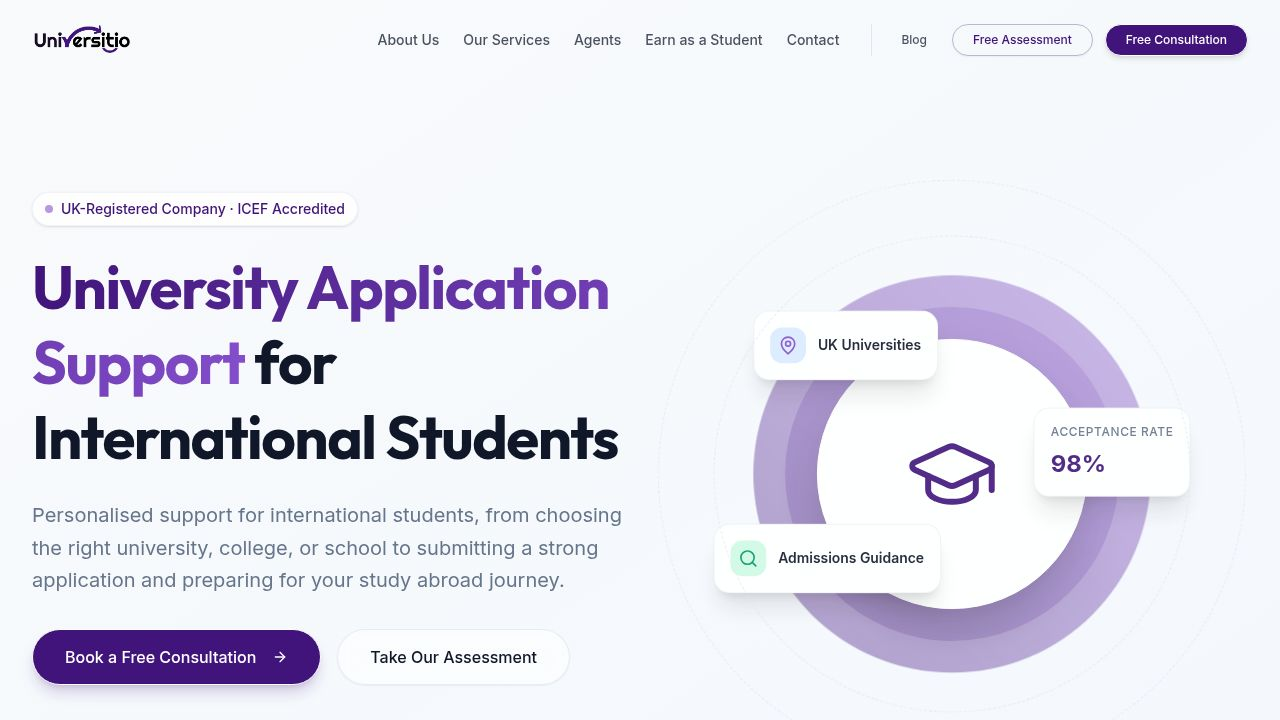
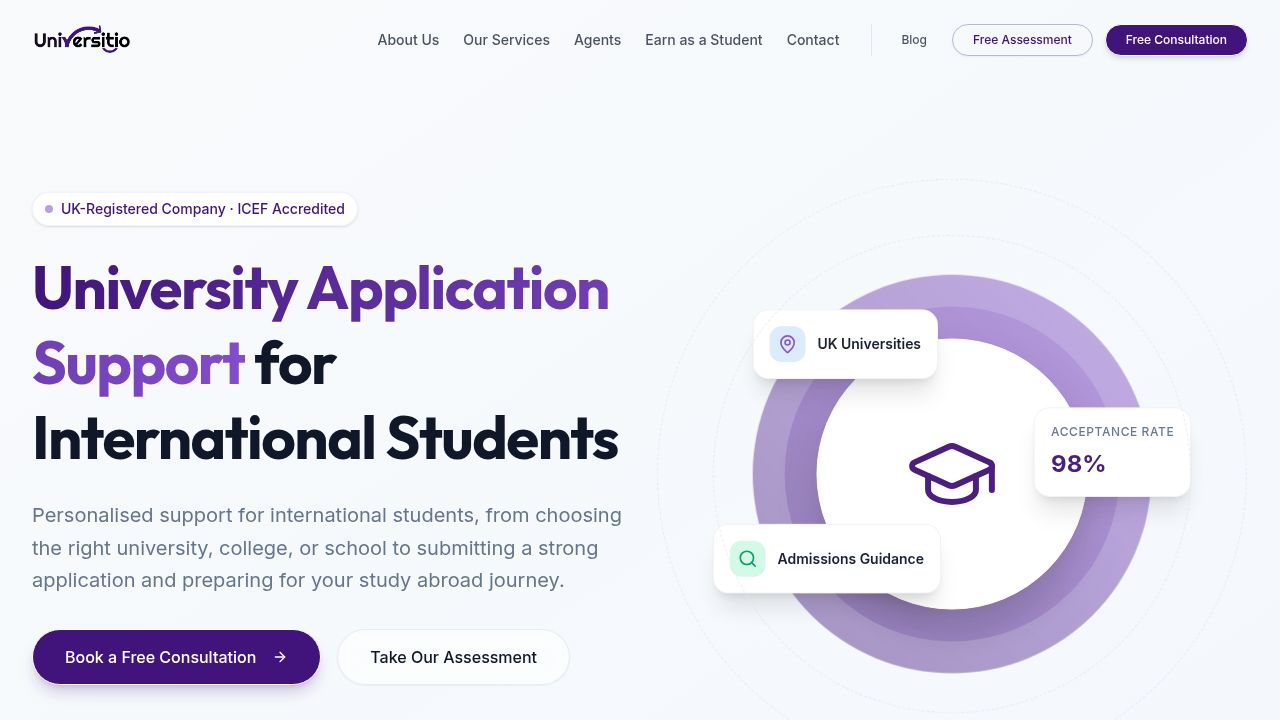
Add new blog post about scholarships and funding opportunities
Add a new blog post to `postsData.ts` with details on scholarships, funding, and fully funded programs, including country-specific comparisons.

Replit-Commit-Author: Agent
Replit-Commit-Session-Id: 0579b8ab-0c78-4963-8e00-94baa2489ae3
Replit-Commit-Checkpoint-Type: full_checkpoint
Replit-Commit-Event-Id: 75c55b7e-3e5d-46f5-87a5-c87869fe02d1
Replit-Commit-Screenshot-Url: https://storage.googleapis.com/screenshot-production-us-central1/a61ac2e4-0211-4feb-af49-366ec9a28edd/0579b8ab-0c78-4963-8e00-94baa2489ae3/mJIYQg8
Replit-Helium-Checkpoint-Created: true

diff --git a/artifacts/universitio/src/data/blog/postsData.ts b/artifacts/universitio/src/data/blog/postsData.ts
@@ -15,6 +15,166 @@ export interface BlogPost {
 
 export const blogPosts: BlogPost[] = [
   {
+  {
+    id: 93,
+    slug: `scholarship-vs-funding-guide`,
+    title: `Scholarship vs Funding: Full Guide for Students`,
+    date: "2026-03-25",
+    author: `Amelia Clarke`,
+    excerpt: `Learn the difference between scholarships, funding, and fully funded programmes. Compare opportunities in the UK, USA, Canada, and Europe.`,
+    image: "blog-images/scholarship-vs-funding-guide.webp",
+    imageAlt: `Scholarship vs Funding: Full Guide for International Students`,
+    categories: ["Student Guides"],
+    categorySlugs: ["student-guides"],
+    tags: ["scholarship vs funding", "fully funded scholarship", "study abroad funding", "UK scholarships international students", "funded PhD", "study abroad financial support"],
+    content: `<h1>Scholarship vs Funding: Full Guide for Students</h1>
+
+<p>If you are planning to study abroad, you have probably heard terms like scholarship, funding, and fully funded. Many students assume they all mean the same thing — but they don't.</p>
+
+<p>Understanding the difference is essential. Otherwise, you may apply with unrealistic expectations and miss better opportunities.</p>
+
+<h2>What Is a Scholarship?</h2>
+
+<p>A scholarship is a financial award given to students to reduce tuition costs.</p>
+
+<h3>Key Features of Scholarships</h3>
+<ul>
+<li>Usually covers part of tuition fees</li>
+<li>Based on academic merit or achievements</li>
+<li>Sometimes includes limited living support</li>
+<li>Rarely covers all expenses</li>
+</ul>
+
+<p>Most scholarships are partial, not full.</p>
+
+<h2>What Is Funding?</h2>
+
+<p>Funding is a broader term that includes all types of financial support.</p>
+
+<h3>Types of Funding</h3>
+<ul>
+<li>Scholarships</li>
+<li>Grants</li>
+<li>Bursaries</li>
+<li>Research funding</li>
+<li>Teaching or research assistantships</li>
+</ul>
+
+<p>Funding can come from universities, governments, or external organisations.</p>
+
+<h2>What Does "Fully Funded" Mean?</h2>
+
+<p>A fully funded programme covers almost all study-related costs.</p>
+
+<h3>Typically Includes</h3>
+<ul>
+<li>Full tuition fees</li>
+<li>Monthly living allowance</li>
+<li>Accommodation (in some cases)</li>
+<li>Travel costs (occasionally)</li>
+</ul>
+
+<p>Fully funded opportunities are limited and highly competitive.</p>
+
+<h2>Key Differences (Simple Breakdown)</h2>
+
+<p><strong>Scholarship</strong> → Usually partial financial support</p>
+
+<p><strong>Funding</strong> → General term for all support types</p>
+
+<p><strong>Fully funded</strong> → Covers nearly everything</p>
+
+<p>Many students misunderstand this and expect full funding where it does not exist.</p>
+
+<h2>UK vs USA vs Canada vs Europe (Real Comparison)</h2>
+
+<h3>United Kingdom (UK)</h3>
+
+<p><strong>Scholarships:</strong> Available but mostly partial</p>
+
+<p><strong>Fully funded:</strong> Mainly for PhD</p>
+
+<p><strong>Undergraduate:</strong> Very rare</p>
+
+<p><strong>Master's:</strong> Limited</p>
+
+<p>For more information on UK student finance, visit the official <a href="https://www.gov.uk/student-finance" target="_blank" rel="noopener noreferrer">UK Student Finance page</a>.</p>
+
+<p><strong>Reality:</strong> The UK is not a fully funded destination for most students.</p>
+
+<h3>United States (USA)</h3>
+
+<p><strong>Scholarships:</strong> Available</p>
+
+<p><strong>Fully funded:</strong> Common for PhD</p>
+
+<p><strong>Master's:</strong> Sometimes funded</p>
+
+<p><strong>Undergraduate:</strong> Rare but possible</p>
+
+<p><strong>Reality:</strong> The USA offers strong funding opportunities, especially in research.</p>
+
+<h3>Canada</h3>
+
+<p><strong>Scholarships:</strong> Available but competitive</p>
+
+<p><strong>Fully funded:</strong> Mostly PhD</p>
+
+<p><strong>Master's:</strong> Limited funding options</p>
+
+<p><strong>Reality:</strong> Canada provides moderate funding, not guaranteed.</p>
+
+<h3>Europe (Germany, Netherlands, etc.)</h3>
+
+<p><strong>Germany:</strong> Low or no tuition fees</p>
+
+<p><strong>Netherlands:</strong> Partial scholarships</p>
+
+<p><strong>Other countries:</strong> Mixed</p>
+
+<p><strong>Reality:</strong> Europe is often low-cost rather than fully funded.</p>
+
+<h2>When Should You Expect Funding?</h2>
+
+<h3>Higher Chances</h3>
+<ul>
+<li>PhD programmes</li>
+<li>Research-based degrees</li>
+<li>Strong academic profile</li>
+</ul>
+
+<h3>Lower Chances</h3>
+<ul>
+<li>Undergraduate degrees</li>
+<li>Taught Master's</li>
+<li>General non-research courses</li>
+</ul>
+
+<h2>Common Mistakes Students Make</h2>
+
+<ul>
+<li>Expecting full funding for Bachelor's degrees</li>
+<li>Assuming all countries offer similar opportunities</li>
+<li>Confusing scholarships with full funding</li>
+<li>Applying without understanding criteria</li>
+</ul>
+
+<p>These mistakes can waste time and delay your plans.</p>
+
+<h2>Final Advice</h2>
+
+<p>Choosing where to study should be based on realistic expectations, not assumptions.</p>
+
+<p>If funding is your priority, you need a clear strategy — especially for selecting the right country and degree level.</p>
+
+<p><strong>👉 Get expert guidance on your study plans and funding options:</strong><br/>
+<a href="https://universitio.com/free-consultation" target="_blank" rel="noopener noreferrer">Book your free consultation now</a></p>
+
+<p>Our team can help you assess your profile, identify realistic funding opportunities, and create a personalised study plan.</p>
+
+<p><strong>👉 Take our free assessment:</strong><br/>
+<a href="https://universitio.com/assessment-form" target="_blank" rel="noopener noreferrer">Complete your assessment form</a></p>`,
+  },
     id: 92,
     slug: `solent-university-courses-fees-admission`,
     title: `Solent University Guide: Courses, Fees & Admission`,